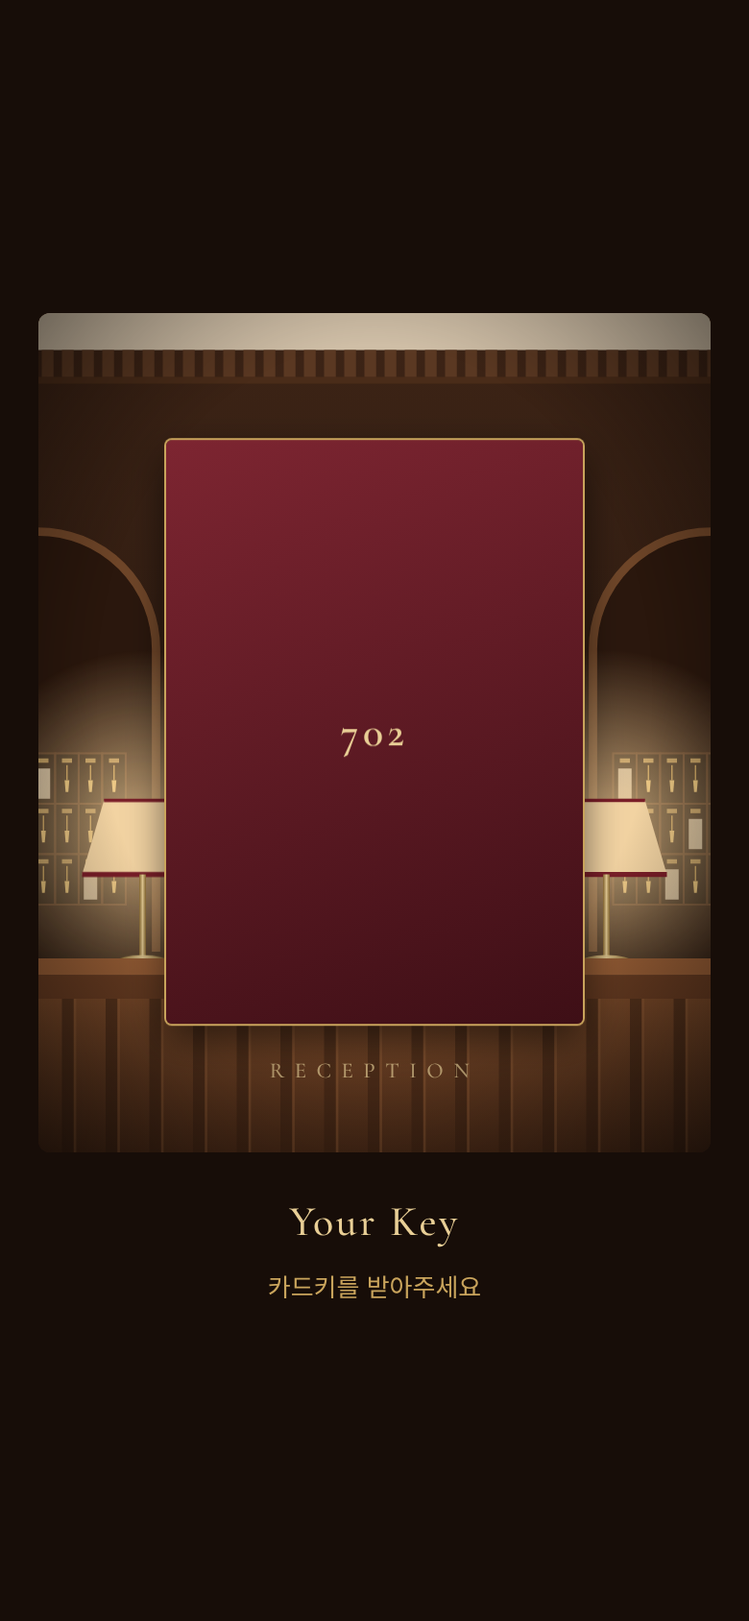
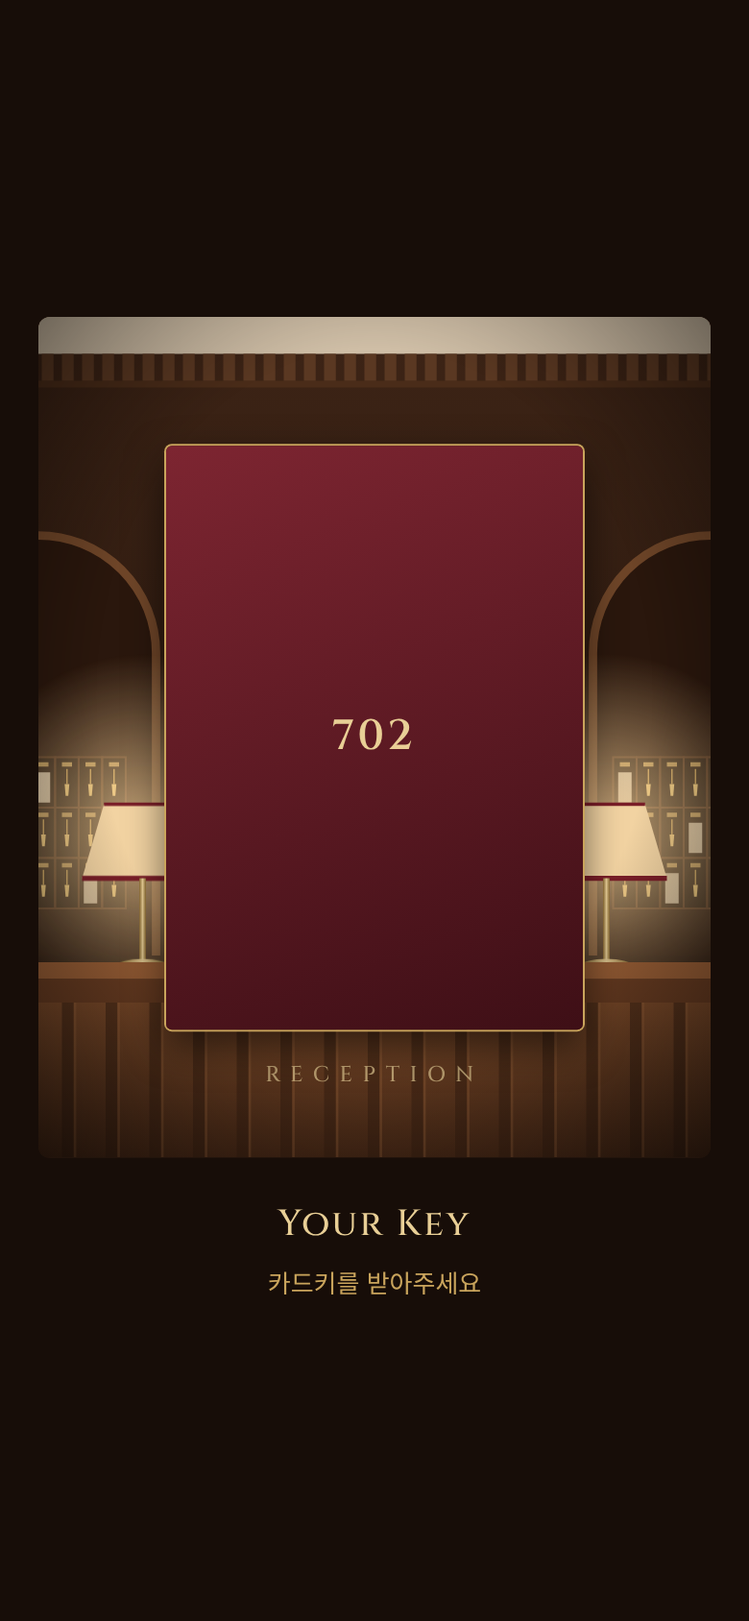
Fonts, room numbering, line breaks, ivory-page lighting
- Cinzel for English/numerals, Gowun Batang for Korean titles
- Key card page background matches the front desk check-in scene, dims to 60%
- Rooms assigned in check-in order (701, 702, ...) with check-in no. (phone last 4)
- Korean text breaks between words with balanced lines
- Lightbox ceiling, walnut panels and wall sconces atop ivory pages

Claude-Session: https://claude.ai/code/session_011z6wvs2Gb5um8vyCmLK585

diff --git a/index.html b/index.html
@@ -5,7 +5,7 @@
 <meta name="viewport" content="width=device-width,initial-scale=1,viewport-fit=cover">
 <title>GRAN SEOUL 7F · Morning Call & Turndown</title>
 <link rel="preconnect" href="https://fonts.googleapis.com">
-<link href="https://fonts.googleapis.com/css2?family=Cormorant+Garamond:ital,wght@0,500;0,600;1,500&family=Pinyon+Script&family=Noto+Sans+KR:wght@400;500;700&family=Noto+Serif+KR:wght@500;700&display=swap" rel="stylesheet">
+<link href="https://fonts.googleapis.com/css2?family=Cinzel:wght@500;600;700&family=Pinyon+Script&family=Noto+Sans+KR:wght@400;500;700&family=Gowun+Batang:wght@400;700&display=swap" rel="stylesheet">
 <style>
 /* =========================================================
    1. 색과 글꼴 (여기 값만 바꾸면 사이트 전체 분위기가 바뀝니다)
@@ -31,9 +31,9 @@
   --muted:#7b6551;
   --lamp:#f3d6a8;
 
-  --en:'Cormorant Garamond',serif;          /* 영문 제목 */
+  --en:'Cinzel',serif;                       /* 영문 제목 · 숫자 */
   --script:'Pinyon Script',cursive;          /* Merci 손글씨 */
-  --serif:'Noto Serif KR',serif;             /* 한글 제목 */
+  --serif:'Gowun Batang',serif;             /* 한글 제목 */
   --sans:'Noto Sans KR',-apple-system,sans-serif;
 }
 *{box-sizing:border-box}
@@ -48,8 +48,12 @@ button,input,select{font:inherit;color:inherit}
 @keyframes fadeIn{from{opacity:0;transform:translateY(6px)}to{opacity:1;transform:none}}
 h1,h2,h3{margin:0;line-height:1.25;font-weight:600}
 p{margin:0;line-height:1.7}
+/* 한글이 단어 중간에서 끊기지 않게, 줄 길이는 고르게 */
+body{word-break:keep-all;overflow-wrap:break-word}
+p,h1,h2,h3,label,.status{text-wrap:balance}
+.nl{white-space:pre-line}
 .en{font-family:var(--en);font-weight:600;letter-spacing:.01em}
-.ko-title{font-family:var(--serif);font-weight:500}
+.ko-title{font-family:var(--serif);font-weight:700}
 .eyebrow{font-family:var(--en);font-size:13px;letter-spacing:.28em;text-transform:uppercase;color:var(--brass-dark);font-weight:600}
 .dark .eyebrow{color:var(--brass)}
 .muted{color:var(--muted)}
@@ -61,7 +65,7 @@ p{margin:0;line-height:1.7}
 /* 황동 장식선: ─── ◆ ─── */
 .rule{display:flex;align-items:center;gap:10px;color:var(--brass);font-size:9px}
 .rule::before,.rule::after{content:'';flex:1;height:1px;background:linear-gradient(90deg,transparent,var(--brass),transparent)}
-.head .en{font-size:34px;color:var(--ink)}
+.head .en{font-size:27px;color:var(--ink)}
 .dark .head .en{color:var(--brass-light)}
 .head .ko-title{font-size:17px;margin-top:4px}
 
@@ -77,9 +81,17 @@ p{margin:0;line-height:1.7}
 .dark .link{color:var(--brass)}
 .tag{display:inline-block;font-family:var(--en);font-size:12px;letter-spacing:.2em;text-transform:uppercase;font-weight:600;color:var(--brass-dark)}
 footer{text-align:center;font-family:var(--en);font-size:13px;color:var(--muted);padding:36px 0 8px;letter-spacing:.24em;text-transform:uppercase}
-footer i{font-style:italic;text-transform:none;letter-spacing:.04em;font-size:14px}
+footer i{font-style:normal;text-transform:none;letter-spacing:.08em;font-size:12px}
 .dark footer{color:rgba(201,164,92,.7)}
 .banner{background:#fff3d9;border:1px solid #ecd6a6;border-radius:4px;padding:10px 14px;font-size:14px;color:#6b4a12}
+
+/* 아이보리 화면의 호텔 조명 */
+body:not(.dark){background:radial-gradient(ellipse 60% 420px at 12% 0,rgba(255,196,120,.16),transparent),radial-gradient(ellipse 60% 420px at 88% 0,rgba(255,196,120,.16),transparent),var(--paper)}
+#ceiling{height:150px;margin-bottom:-36px;overflow:hidden;position:relative;pointer-events:none;-webkit-mask-image:linear-gradient(#000 35%,transparent 92%);mask-image:linear-gradient(#000 35%,transparent 92%)}
+body:not(.dark) .wrap{position:relative;z-index:1;padding-top:0}
+#ceiling svg{width:100%;height:100%;display:block}
+body.dark #ceiling{display:none}
+.sconce-glow{animation:flicker 5s ease-in-out infinite}
 
 /* ---------------------------------------------------------
    엘리베이터 입장 (처음 접속할 때 1층 → 7층)
@@ -115,33 +127,33 @@ footer i{font-style:italic;text-transform:none;letter-spacing:.04em;font-size:14
 .lamp-glow{opacity:.95;animation:flicker 4s ease-in-out infinite}
 @keyframes flicker{0%,100%{opacity:.95}45%{opacity:.82}60%{opacity:1}}
 .hero-copy{text-align:center;padding:26px 6px 4px}
-.hero-copy h1{font-family:var(--en);font-weight:600;font-size:44px;line-height:1.02;color:var(--brass-light);margin:12px 0 14px}
-.hero-copy h1 i{font-weight:500;font-size:34px;color:var(--brass)}
+.hero-copy h1{font-family:var(--en);font-weight:600;font-size:34px;line-height:1.15;color:var(--brass-light);margin:12px 0 14px}
+.hero-copy h1 i{font-style:normal;font-weight:500;font-size:24px;color:var(--brass)}
 .plate{display:inline-block;font-family:var(--en);font-weight:600;letter-spacing:.32em;font-size:12px;color:var(--walnut-900);padding:6px 12px 6px 16px;border-radius:2px;
   background:linear-gradient(180deg,#e7cd92,#b8924a);box-shadow:inset 0 1px 0 rgba(255,255,255,.5),0 2px 6px rgba(0,0,0,.4)}
 .svc-list{border-top:1px solid rgba(201,164,92,.35)}
 .svc{display:grid;grid-template-columns:44px 1fr;gap:14px;align-items:start;padding:18px 2px;border-bottom:1px solid rgba(201,164,92,.35)}
 .svc svg{width:40px;height:40px;stroke:var(--brass);fill:none;stroke-width:1.4;stroke-linecap:round;stroke-linejoin:round}
-.svc h3{font-family:var(--en);font-size:22px;color:var(--brass-light);font-weight:600}
+.svc h3{font-family:var(--en);font-size:17px;color:var(--brass-light);font-weight:600}
 .svc h3 span{font-family:var(--serif);font-size:13px;color:var(--brass);margin-left:6px;font-weight:500}
 .gift-note{border:1px solid rgba(201,164,92,.45);border-radius:4px;padding:18px;text-align:center}
 
 /* 체크인 완료 화면 배경: 프런트 데스크가 보이다가 검은 막(60%)이 서서히 내려앉음 */
-#wbg{position:fixed;inset:0;z-index:-1;display:none;background:var(--walnut-900)}
-#wbg svg{width:100%;height:100%;display:block}
-#wbg::after{content:'';position:absolute;inset:0;background:#000;opacity:0}
-body.lobby #wbg{display:block}
+#wbg{position:fixed;inset:0;z-index:-1;display:none;background:var(--walnut-900);flex-direction:column;align-items:center;justify-content:center;padding:20px}
+#wbg .desk{width:min(440px,100%);box-shadow:none}
+#wbg .msg{visibility:hidden}
+#wbg::after{content:'';position:absolute;inset:0;z-index:2;background:#000;opacity:0}
+body.lobby #wbg{display:flex}
 body.lobby #wbg::after{animation:dimIn 2.4s .3s ease forwards}
 @keyframes dimIn{to{opacity:.6}}
-#wbg::before{content:'';position:absolute;inset:0;z-index:1;background:linear-gradient(180deg,rgba(0,0,0,.35),transparent 25%,transparent 55%,rgba(0,0,0,.55))}
 body.lobby #s-welcome :is(p,h2){text-shadow:0 1px 3px rgba(0,0,0,.9),0 2px 14px rgba(0,0,0,.8)}
 
 /* 체크인 모션 화면 */
 #checkin{position:fixed;inset:0;z-index:25;background:var(--walnut-900);display:none;flex-direction:column;align-items:center;justify-content:center;padding:20px;cursor:pointer}
 #checkin.on{display:flex;animation:fadeIn .4s}
 #checkin .desk{width:min(440px,100%);box-shadow:none}
-#checkin .msg{font-family:var(--en);color:var(--brass-light);font-size:22px;letter-spacing:.06em;margin-top:18px;min-height:30px;text-align:center}
-#checkin .msg small{display:block;font-family:var(--sans);font-size:13px;color:var(--brass);letter-spacing:0;margin-top:4px}
+#checkin .msg,#wbg .msg{font-family:var(--en);color:var(--brass-light);font-size:19px;letter-spacing:.06em;margin-top:18px;min-height:30px;text-align:center}
+#checkin .msg small,#wbg .msg small{display:block;font-family:var(--sans);font-size:13px;color:var(--brass);letter-spacing:0;margin-top:4px}
 .cubby-hl{opacity:0}
 #checkin.go .cubby-hl{animation:cubby 1.4s .5s ease forwards}
 @keyframes cubby{0%{opacity:0}40%,100%{opacity:1}}
@@ -181,8 +193,10 @@ input:focus,select:focus{outline:none;border-bottom:2px solid var(--burgundy)}
 .keycard .kc-top{display:flex;justify-content:space-between;font-family:var(--en);font-size:10px;letter-spacing:.24em;color:var(--brass)}
 .keycard .kc-top b{font-weight:600;color:var(--brass-light);line-height:1.1}
 .keycard .room{font-family:var(--en);font-size:14px;letter-spacing:.3em;margin-top:12px;color:var(--brass)}
-.keycard .room b{display:block;font-size:50px;letter-spacing:.06em;color:var(--brass-light);font-weight:600;line-height:1.05}
-.keycard .kc-note{font-family:var(--en);font-size:11px;letter-spacing:.18em;white-space:nowrap;color:var(--brass);margin-top:10px;text-transform:uppercase}
+.keycard .room b{display:block;font-size:46px;letter-spacing:.04em;margin-top:4px;color:var(--brass-light);font-weight:600;line-height:1.05}
+.keycard .kc-checkin{display:inline-flex;align-items:baseline;gap:10px;margin-top:12px;padding:6px 14px;border-top:1px solid rgba(201,164,92,.45);border-bottom:1px solid rgba(201,164,92,.45)}
+.keycard .kc-checkin span{font-family:var(--en);font-size:10px;letter-spacing:.2em;color:var(--brass)}
+.keycard .kc-checkin b{font-family:var(--en);font-size:18px;letter-spacing:.14em;color:#fff3dc;font-weight:600}
 .keycard .code{font-family:var(--en);font-size:24px;letter-spacing:.32em;font-weight:600;margin-top:8px;color:#fff3dc}
 .sleeve{position:absolute;left:0;right:0;bottom:0;height:50%;border-radius:4px;z-index:2;text-align:center;color:var(--brass-light);
   background:radial-gradient(circle at 50% 40%,rgba(255,255,255,.06),transparent 60%),linear-gradient(160deg,#7a2331,var(--burgundy) 50%,#4d121b);
@@ -201,9 +215,9 @@ input:focus,select:focus{outline:none;border-bottom:2px solid var(--burgundy)}
 .progress i{display:block;height:100%;background:linear-gradient(90deg,var(--brass-dark),var(--brass));border-radius:99px;transition:width .5s}
 .today-line{font-size:14.5px;color:var(--burgundy);font-weight:500}
 .svc-card{display:grid;grid-template-columns:64px 1fr auto;gap:14px;align-items:center}
-.svc-card h3{font-family:var(--en);font-size:24px}
+.svc-card h3{font-family:var(--en);font-size:20px}
 .svc-card .ko{font-family:var(--serif);font-size:14px;margin-top:2px}
-.svc-card .status{font-size:14px;color:var(--muted);margin-top:6px;line-height:1.5}
+.svc-card .status{white-space:pre-line;font-size:14px;color:var(--muted);margin-top:6px;line-height:1.5}
 .play{width:60px;height:60px;border-radius:50%;border:0;cursor:pointer;font-size:17px;background:var(--burgundy);color:var(--brass-light);box-shadow:0 0 0 2px var(--card),0 0 0 3px var(--brass)}
 .done .play{background:var(--brass);color:var(--walnut-900)}
 .done .status{color:var(--burgundy);font-weight:500}
@@ -220,16 +234,16 @@ input:focus,select:focus{outline:none;border-bottom:2px solid var(--burgundy)}
 .scenes{display:grid;grid-template-columns:1fr 1fr;gap:8px}
 .scenes button{border:1px solid var(--line);background:#fff;border-radius:4px;padding:14px 12px;text-align:left;cursor:pointer;font-size:14px}
 .scenes button b{display:block;font-family:var(--serif);font-size:14px;font-weight:500}
-summary{cursor:pointer;list-style:none}
+summary{cursor:pointer;list-style:none;display:flex;justify-content:space-between;align-items:baseline;gap:10px}
 summary::-webkit-details-marker{display:none}
-summary .en{font-size:19px}
+summary .en{font-size:15px}
 .slot{display:flex;justify-content:space-between;align-items:center;gap:10px;padding:12px 0;border-top:1px solid var(--line)}
 .slot:first-child{border-top:0}
 .slot button{border:1px solid var(--burgundy);background:transparent;color:var(--burgundy);border-radius:3px;padding:8px 14px;cursor:pointer;font-weight:700;font-size:14px}
 .slot button.booked{background:var(--burgundy);color:var(--brass-light)}
 .slot button:disabled{opacity:.4;border-color:var(--line);color:var(--muted)}
 .cal{display:grid;grid-template-columns:repeat(7,1fr);gap:6px}
-.day{border-radius:3px;background:#fff;border:1px solid var(--line);padding:6px 0 8px;text-align:center;font-family:var(--en);font-size:15px;font-weight:600}
+.day{border-radius:3px;background:#fff;border:1px solid var(--line);padding:6px 0 8px;text-align:center;font-family:var(--en);font-size:14px;font-weight:600}
 .day.now{border-color:var(--burgundy);box-shadow:inset 0 0 0 1px var(--burgundy)}
 .day.off{opacity:.45}
 .dots{display:flex;justify-content:center;gap:4px;margin-top:3px;height:7px}
@@ -251,7 +265,7 @@ body.velvet{background:repeating-linear-gradient(90deg,#4a1219 0 14px,#5c1820 26
 @keyframes merciIn{from{opacity:0;transform:translateY(30px) rotate(-6deg)}to{opacity:1;transform:rotate(-1.5deg)}}
 .merci .script{font-family:var(--script);font-size:62px;line-height:1;color:var(--burgundy)}
 .merci .gname{font-family:var(--serif);font-size:20px;font-weight:500;margin-top:14px}
-.merci .code{font-family:var(--en);font-size:30px;letter-spacing:.16em;font-weight:600;color:var(--brass-dark);margin:12px 0 4px}
+.merci .code{font-family:var(--en);font-size:26px;letter-spacing:.12em;font-weight:600;color:var(--brass-dark);margin:12px 0 4px}
 .merci .who{font-size:14px;color:var(--muted)}
 .velvet .note{color:var(--brass-light);opacity:.85}
 
@@ -302,6 +316,9 @@ body.velvet{background:repeating-linear-gradient(90deg,#4a1219 0 14px,#5c1820 26
   <p class="msg" id="checkinMsg"></p>
 </div>
 
+<!-- 아이보리 화면 위쪽 조명: 라이트박스 천장 · 월넛 패널 · 벽등 (어두운 화면에서는 숨김) -->
+<div id="ceiling" aria-hidden="true"></div>
+
 <!-- =========================================================
      화면 1. 로비 (첫 화면)
      ========================================================= -->
@@ -333,9 +350,9 @@ body.velvet{background:repeating-linear-gradient(90deg,#4a1219 0 14px,#5c1820 26
     <div class="gift-note stack" style="gap:8px">
       <span class="eyebrow">Complimentary Gift</span>
       <p class="small" style="color:var(--brass-light)">완주 감사 사은품 · 택 1</p>
-      <p class="small muted" id="giftPreview"></p>
+      <p class="small muted nl" id="giftPreview"></p>
       <div class="rule">◆</div>
-      <p class="small muted" id="periodText"></p>
+      <p class="small muted nl" id="periodText"></p>
     </div>
 
     <button class="btn" data-go="signup"><small>CHECK-IN</small>2주 서비스 신청하기</button>
@@ -375,7 +392,7 @@ body.velvet{background:repeating-linear-gradient(90deg,#4a1219 0 14px,#5c1820 26
       <div class="keycard">
         <div class="kc-top"><span>YOUR</span><b>GRAN SEOUL<br>7F</b><span>KEY</span></div>
         <p class="room">ROOM<b id="wRoom"></b></p>
-        <p class="kc-note">Morning Call · Turndown</p>
+        <div class="kc-checkin"><span>Check-in No.</span><b id="wCheckin"></b></div>
       </div>
       <div class="sleeve">
         <svg viewBox="0 0 54 120"><circle cx="27" cy="20" r="12"/><circle cx="27" cy="20" r="6"/><path d="M27 32v66M27 74h10M27 84h8M27 96h11"/><path d="M27 8c-3-6 3-6 0 0"/></svg>
@@ -383,8 +400,8 @@ body.velvet{background:repeating-linear-gradient(90deg,#4a1219 0 14px,#5c1820 26
         <p class="tagline">MORNING CALL &amp; TURNDOWN · 7F</p>
       </div>
     </div>
-    <p class="muted" id="wText"></p>
-    <p class="muted">외우실 건 없어요.<br>매일 오는 <b style="color:var(--brass-light)">문자 속 링크</b>만 누르면 바로 객실이 열려요.</p>
+    <p class="muted nl" id="wText"></p>
+    <p class="muted">외우실 건 없어요.<br>매일 오는 <b style="color:var(--brass-light)">문자 속 링크</b>만 누르면<br>바로 객실이 열려요.</p>
     <button class="btn" data-go="me"><small>YOUR STAY</small>내 객실로 가기</button>
   </div>
 </section>
@@ -412,11 +429,11 @@ body.velvet{background:repeating-linear-gradient(90deg,#4a1219 0 14px,#5c1820 26
     <button class="btn ghost" id="demoFill" hidden>[데모] 테스트용 기록 채우기</button>
     <div class="row" style="justify-content:space-between;align-items:flex-end">
       <div class="head"><p class="eyebrow" id="meDay"></p><h2 class="ko-title" style="font-size:24px;margin-top:6px" id="meHello"></h2></div>
-      <span class="room-plate" id="meRoom"></span>
+      <div style="text-align:right"><span class="room-plate" id="meRoom"></span><p class="small muted" style="margin-top:6px">체크인 번호 <b id="meCheckin" style="color:var(--ink)"></b></p></div>
     </div>
 
     <div class="card framed stack">
-      <div class="row" style="justify-content:space-between"><span class="tag">Your Stay</span><span class="en" style="font-size:20px" id="meCount"></span></div>
+      <div class="row" style="justify-content:space-between"><span class="tag">Your Stay</span><span class="en" style="font-size:16px" id="meCount"></span></div>
       <div class="progress"><i id="meBar"></i></div>
       <p class="small muted" id="meGoalText"></p>
       <p class="today-line" id="meToday"></p>
@@ -438,16 +455,16 @@ body.velvet{background:repeating-linear-gradient(90deg,#4a1219 0 14px,#5c1820 26
       <div><span class="tag">Turndown</span><h3 class="ko" id="nTitle"></h3><p class="status" id="nStatus"></p></div>
       <button class="play" id="nightPlay" aria-label="오늘 밤 풍경 재생">▶</button>
     </div>
-    <details class="card"><summary><span class="en">Choose another scene</span> <span class="small muted">· 다른 풍경 고르기 ›</span></summary><div class="scenes" id="sceneList" style="margin-top:14px"></div></details>
+    <details class="card"><summary><span class="en">Other Scenes</span><span class="small muted">다른 풍경 고르기 ›</span></summary><div class="scenes" id="sceneList" style="margin-top:14px"></div></details>
 
     <div class="card stack" style="gap:6px">
-      <div class="row" style="justify-content:space-between"><span class="en" style="font-size:20px">Morning Reset 15</span><span class="small muted">화·목 출근 전</span></div>
+      <div class="row" style="justify-content:space-between"><span class="en" style="font-size:16px">Morning Reset 15</span><span class="small muted">화·목 출근 전</span></div>
       <p class="small muted">7층 피트니스 GX룸 · 정장 차림 그대로 · 선착순</p>
       <div id="slots"></div>
     </div>
 
     <div class="card stack">
-      <span class="en" style="font-size:20px">Your 14 Nights <span class="small muted" style="font-family:var(--sans)">· 나의 2주</span></span>
+      <span class="en" style="font-size:16px">Your 14 Nights <span class="small muted" style="font-family:var(--sans)">· 나의 2주</span></span>
       <div class="cal" id="cal"></div>
       <div class="row small muted" style="gap:14px"><span class="row" style="gap:6px"><b style="width:7px;height:7px;border-radius:50%;background:var(--brass);display:inline-block"></b>모닝콜</span><span class="row" style="gap:6px"><b style="width:7px;height:7px;border-radius:50%;background:var(--burgundy);display:inline-block"></b>턴다운</span></div>
     </div>
@@ -551,6 +568,8 @@ const Store = (() => {
     if (json.error) throw new Error(json.error);
     return json;
   }
+  // 객실 번호: 체크인한 순서대로 701, 702, 703 … 799, 다음은 7100, 7101 … (항상 7로 시작)
+  const roomNo = n => '7' + String(n).padStart(2, '0');
   const newCode = () => { const c = 'ABCDEFGHJKLMNPQRSTUVWXYZ23456789'; let s = ''; for (let i = 0; i < 6; i++) s += c[Math.floor(Math.random() * c.length)]; return s; };
   return {
     // 같은 전화번호로 다시 신청하면 새로 만들지 않고 기존 객실을 돌려줍니다 → { code, existing }
@@ -558,7 +577,8 @@ const Store = (() => {
       if (online()) return call('register', { user: u });
       const old = Object.values(mem.users).find(x => x.phone === u.phone);
       if (old) return { code: old.code, existing: true };
-      const code = newCode(); mem.users[code] = { ...u, code, createdAt: new Date().toISOString() }; return { code, existing: false };
+      const code = newCode(), room = roomNo(Object.keys(mem.users).length + 1);
+      mem.users[code] = { ...u, code, room, createdAt: new Date().toISOString() }; return { code, existing: false };
     },
     // 전화번호로 내 객실 찾기 → 코드 (없으면 null)
     async findByPhone(phone) {
@@ -901,12 +921,13 @@ document.addEventListener('click', e => { const b = e.target.closest('[data-go]'
 
 /* --- 첫 화면 --- */
 document.querySelectorAll('[data-brand]').forEach(el => el.textContent = CONFIG.brand);
-$('giftPreview').textContent = CONFIG.gifts.map(g => g.name).join(' · ');
-$('periodText').textContent = `운영 기간 ${fmtDate(dayList[0])} ~ ${fmtDate(dayList[CONFIG.days - 1])} · ${CONFIG.goal}번 들으면 완주`;
+// 사은품은 두 개씩 한 줄로
+$('giftPreview').textContent = CONFIG.gifts.map(g => g.name).reduce((a, n, i) => a + (i ? (i % 2 ? ' · ' : '\n') : '') + n, '');
+$('periodText').textContent = `운영 기간 ${fmtDate(dayList[0])} ~ ${fmtDate(dayList[CONFIG.days - 1])}\n${CONFIG.goal}번 들으면 완주`;
 
-/* 객실 번호 = 전화번호 뒷자리 4개 (장식용. 들어올 때는 전화번호 전체로 구분) */
+/* 체크인 번호 = 전화번호 뒷자리 4개 (다시 들어올 때 쓰는 전화번호를 떠올리게 해 줌) */
 const digits = v => String(v || '').replace(/\D/g, '');
-const roomOf = phone => digits(phone).slice(-4);
+const checkinNo = phone => digits(phone).slice(-4);
 
 /* 이 폰 기억하기: 한 번 들어온 폰은 다음부터 자동으로 내 객실이 열립니다 */
 const Device = {
@@ -951,21 +972,46 @@ function deskSVG(id) {   // id: 그림마다 다른 이름 (같은 이름을 쓰
   <path d="M330 380 V200 A70 70 0 0 1 470 200 V380" fill="#2a170d" stroke="#6e4528" stroke-width="5"/>
   <path d="M118 380 V190 A82 82 0 0 1 282 190 V380" fill="#2a170d" stroke="#6e4528" stroke-width="6"/>
   ${cubby(-60, 262, 8, 3)}${cubby(130, 262, 10, 3, true)}${cubby(342, 262, 8, 3)}
-  <text x="200" y="257" text-anchor="middle" font-family="Cormorant Garamond,serif" font-size="9" letter-spacing="3" fill="#c9a45c">GUEST ROOMS · 7F</text>
+  <text x="200" y="257" text-anchor="middle" font-family="Cinzel,serif" font-size="9" letter-spacing="3" fill="#c9a45c">GUEST ROOMS · 7F</text>
   <circle cx="200" cy="168" r="5" fill="url(#${id}-brass)"/><path d="M194 172 L206 172 L210 196 L190 196 Z" fill="url(#${id}-brass)"/><circle cx="200" cy="205" r="40" fill="url(#${id}-glow)" opacity=".6"/>
   ${lamp(62)}${lamp(338)}
   <rect y="384" width="400" height="10" fill="#9a5f36"/><rect y="394" width="400" height="14" fill="#6a3d22"/>
   <rect y="408" width="400" height="92" fill="url(#${id}-wood)"/>${flutes}
   <rect x="172" y="379" width="56" height="6" rx="1" fill="#1a0f09"/>
   <ellipse cx="262" cy="383" rx="11" ry="2.5" fill="#5a3d1a"/><path d="M253 382 A9 9 0 0 1 271 382 Z" fill="url(#${id}-brass)"/><circle cx="262" cy="372" r="1.6" fill="#e9cf96"/>
-  <text x="200" y="455" text-anchor="middle" font-family="Cormorant Garamond,serif" font-size="13" letter-spacing="6" fill="#e9cf96" opacity=".75">RECEPTION</text>
+  <text x="200" y="455" text-anchor="middle" font-family="Cinzel,serif" font-size="13" letter-spacing="6" fill="#e9cf96" opacity=".75">RECEPTION</text>
   <rect width="400" height="500" fill="url(#${id}-vig)"/>
 </svg>`;
 }
 $('homeDesk').innerHTML = deskSVG('home');
+
+/* 아이보리 화면 위쪽 조명 그림 */
+(function ceiling() {
+  let grid = '', panels = '';
+  for (let x = 70; x < 400; x += 65) grid += `<path d="M${x} 0V52" stroke="#6b4426" stroke-width="2.4"/>`;
+  [18, 36].forEach(y => grid += `<path d="M10 ${y}H390" stroke="#6b4426" stroke-width="2.4"/>`);
+  for (let x = 0; x < 400; x += 50) panels += `<rect x="${x + 5}" y="72" width="40" height="110" rx="1" fill="none" stroke="#7a4b2a" stroke-width="1.2" opacity=".8"/>`;
+  const sconce = x => `<circle class="sconce-glow" cx="${x}" cy="96" r="60" fill="url(#cg-glow)"/>
+    <path d="M${x - 9} 88 Q${x - 11} 104 ${x - 4} 108 H${x + 4} Q${x + 11} 104 ${x + 9} 88 Q${x + 4} 92 ${x} 86 Q${x - 4} 92 ${x - 9} 88Z" fill="#ffe2a8"/>
+    <path d="M${x - 2} 108h4v10h-4z" fill="#b8924a"/><path d="M${x - 6} 118h12" stroke="#b8924a" stroke-width="2.5" stroke-linecap="round"/>`;
+  $('ceiling').innerHTML = `<svg viewBox="0 0 400 170" preserveAspectRatio="xMidYMin slice">
+    <defs>
+      <linearGradient id="cg-wall" x1="0" y1="0" x2="0" y2="1"><stop offset="0" stop-color="#4a2b18"/><stop offset="1" stop-color="#2c1a0f"/></linearGradient>
+      <radialGradient id="cg-light" cx=".5" cy="0" r="1"><stop offset="0" stop-color="#fff6df"/><stop offset=".7" stop-color="#f6dca8"/><stop offset="1" stop-color="#e2b979"/></radialGradient>
+      <radialGradient id="cg-glow"><stop offset="0" stop-color="#ffd38a" stop-opacity=".75"/><stop offset="1" stop-color="#ffd38a" stop-opacity="0"/></radialGradient>
+    </defs>
+    <rect width="400" height="170" fill="url(#cg-wall)"/>
+    <path d="M0 0H400L388 52H12Z" fill="url(#cg-light)"/>${grid}
+    <rect y="52" width="400" height="8" fill="#2a170c"/><rect y="60" width="400" height="3" fill="#a87a45" opacity=".7"/>
+    ${panels}
+    <rect y="0" width="400" height="80" fill="url(#cg-glow)" opacity=".25"/>
+    ${sconce(48)}${sconce(352)}
+  </svg>`;
+})();
 $('checkinDesk').insertAdjacentHTML('afterbegin', deskSVG('ci'));
 $('liftBehind').innerHTML = deskSVG('lift');
-$('wbg').innerHTML = deskSVG('wbg');
+// 체크인 연출의 마지막 장면과 똑같은 자리 (같은 크기의 데스크 + 보이지 않는 안내문 자리)
+$('wbg').innerHTML = `<div class="desk">${deskSVG('wbg')}</div><p class="msg">Your Key<small>카드키를 받아주세요</small></p>`;
 
 /* 엘리베이터 입장: 1층 → 7층, 문이 열리며 로비 등장 (처음 한 번만, 탭하면 건너뜀) */
 function playLift() {
@@ -1017,9 +1063,10 @@ $('fSubmit').onclick = async () => {
     const { code, existing } = await Store.register(u);
     enter(code, await Store.getUser(code));
     if (existing) { alert('이미 체크인하신 번호예요. 기존 객실로 안내해 드릴게요.'); show('me'); return; }
-    const room = roomOf(u.phone);
+    const room = state.data.user.room;
+    $('wCheckin').textContent = checkinNo(u.phone);
     $('wTitle').textContent = `${u.name}님, 환영합니다`;
-    $('wText').textContent = `${fmtDate(dayList[0])}부터 매일 ${u.morningTime}에 문자로 모닝콜이 도착합니다.`;
+    $('wText').textContent = `${fmtDate(dayList[0])}부터 매일 ${u.morningTime},\n문자로 모닝콜이 도착합니다.`;
     $('wRoom').textContent = room;
     await playCheckin(room);
     show('welcome');
@@ -1048,9 +1095,10 @@ async function renderMe() {
   $('previewBanner').hidden = td.mode === 'live' && !!CONFIG.serverUrl;
   $('previewBanner').textContent = !CONFIG.serverUrl ? '데모 모드입니다. 새로고침하면 기록이 사라져요. 구글 시트를 연결하면 실제로 저장됩니다.' : td.mode === 'before' ? `미리보기 중입니다. 기록은 ${fmtDate(dayList[0])}부터 쌓입니다.` : '프로모션 기간이 끝났습니다. 참여해주셔서 감사합니다.';
   $('demoFill').hidden = !!CONFIG.serverUrl;
-  $('meDay').textContent = `Your Stay · Day ${td.idx + 1} of ${CONFIG.days}`;
+  $('meDay').textContent = `Day ${td.idx + 1} / ${CONFIG.days}`;
   $('meHello').textContent = `${user.name}님의 객실`;
-  $('meRoom').textContent = `ROOM ${roomOf(user.phone)}`;
+  $('meRoom').textContent = `ROOM ${user.room}`;
+  $('meCheckin').textContent = checkinNo(user.phone);
   const n = doneCount(), pct = Math.min(100, n / CONFIG.goal * 100);
   $('meBar').style.width = pct + '%';
   $('meCount').textContent = `${Math.min(n, CONFIG.goal)} / ${CONFIG.goal}`;
@@ -1063,14 +1111,14 @@ async function renderMe() {
   const mDone = has('morning', td.date);
   $('cardMorning').classList.toggle('done', mDone);
   $('cardMorning').classList.toggle('ringing', !mDone);
-  $('mStatus').textContent = mDone ? '오늘 모닝콜 인증 완료 ✓ · 다시 들어도 기록되지 않아요' : `매일 ${user.morningTime} 도착 · 깊게 마시고 짧게 내쉬는 호흡`;
+  $('mStatus').textContent = mDone ? '오늘 모닝콜 인증 완료 ✓\n다시 들어도 기록되지 않아요' : `매일 ${user.morningTime} 도착\n깊게 마시고 짧게 내쉬기`;
 
   const tonight = NIGHT_ORDER[td.idx % NIGHT_ORDER.length], nDone = has('night', td.date);
   $('nTitle').textContent = `오늘 밤 · ${SCENES[tonight].name}`;
   $('nightPlay').dataset.play = tonight;
   $('cardNight').classList.toggle('done', nDone);
   $('nHang').textContent = nDone ? 'Do not disturb' : 'Turndown';
-  $('nStatus').textContent = nDone ? '오늘 턴다운 인증 완료 ✓ · 다시 들어도 기록되지 않아요' : SCENES[tonight].sub;
+  $('nStatus').textContent = nDone ? '오늘 턴다운 인증 완료 ✓\n다시 들어도 기록되지 않아요' : SCENES[tonight].sub;
   $('sceneList').innerHTML = NIGHT_ORDER.map(k => `<button data-play="${k}"><b>${SCENES[k].name}</b><span class="muted small">${SCENES[k].sub}</span></button>`).join('');
 
   const counts = await Store.slotCounts().catch(() => ({}));
@@ -1115,8 +1163,8 @@ $('giftConfirm').onclick = async () => {
 function showTicket() {
   const g = CONFIG.gifts.find(x => x.id === state.data.gift.gift);
   $('tGift').textContent = g ? g.name : state.data.gift.gift;
-  $('tCode').textContent = `ROOM ${roomOf(state.data.user.phone)}`;
-  $('tName').textContent = `${state.data.user.name} · ${state.data.user.company}`;
+  $('tCode').textContent = `ROOM ${state.data.user.room}`;
+  $('tName').textContent = `${state.data.user.name} · ${state.data.user.company} · 체크인 번호 ${checkinNo(state.data.user.phone)}`;
   show('ticket');
 }
 
